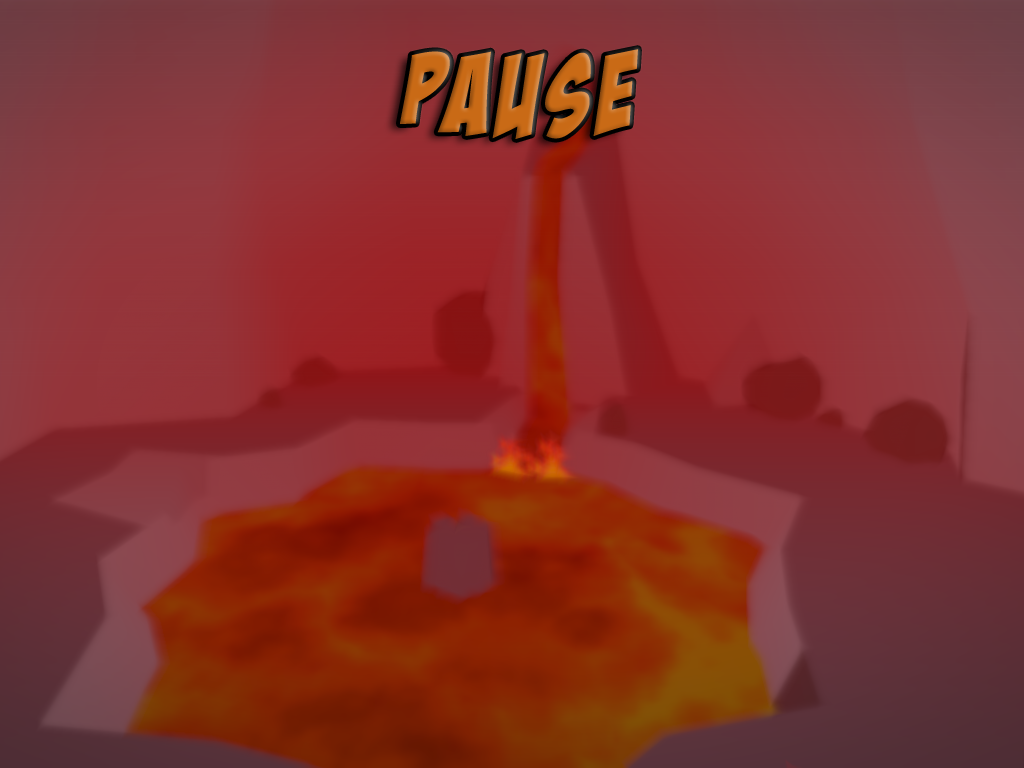
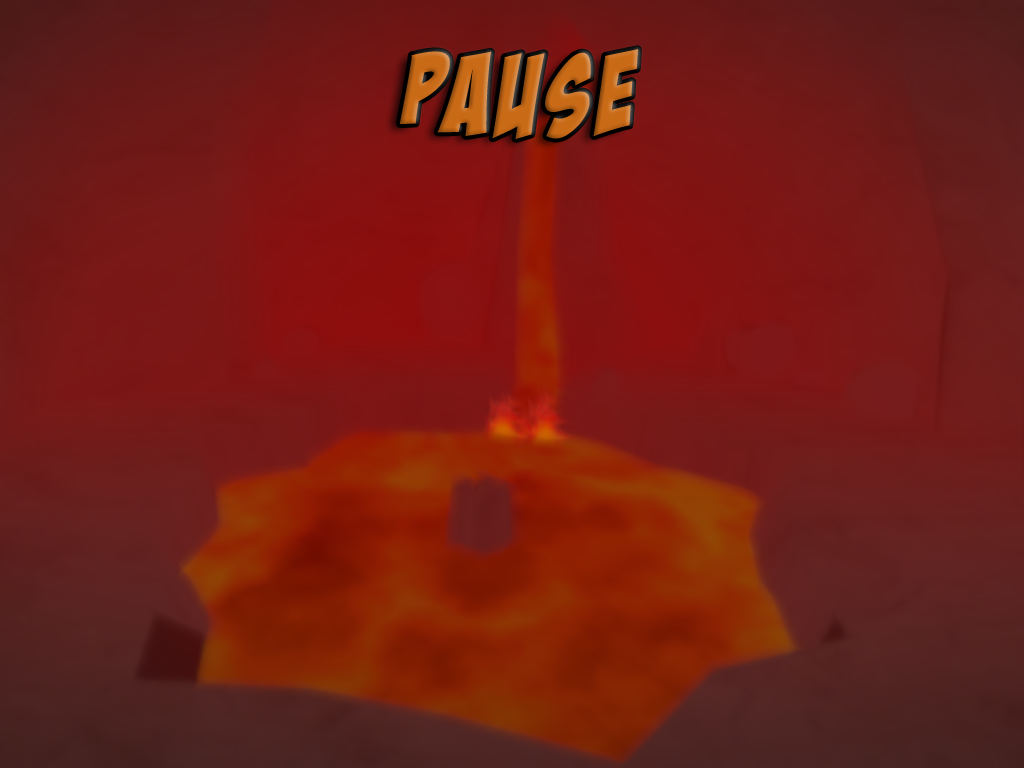
+ New Boss Pause screen. ~ Fixed objects points.

diff --git a/src/Scenario/Object.cpp b/src/Scenario/Object.cpp
@@ -17,7 +17,7 @@ Object::Object(Ogre::String name, ObjectTypes type, Ogre::Vector3 physicBox, int
 	if( life == 0 )
 		life = -250;
 	mPhysicSize = physicBox; 
-	points = 100 + ((rand() % 25) * 100);
+	points = 100 + ((rand() % 25) * 10);
 }
 
 
